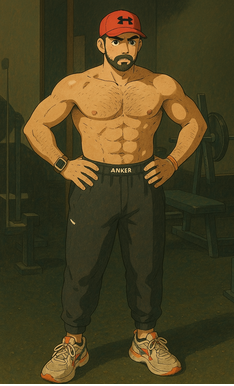
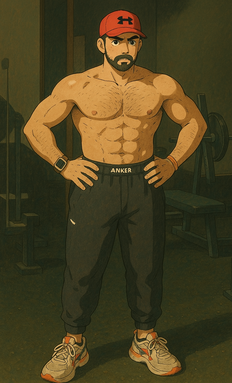
form unfunctional added

diff --git a/index.html b/index.html
@@ -584,126 +584,46 @@
                 right: 10px;
             }
         }
-        .contact-section {
-  padding-top: 120px;
-  font-family: Arial, sans-serif;
-  background: #f4f6f8;
+        
+/* css contact form */
+
+.contact-section{padding:4rem 1rem;font-family:'Segoe UI',sans-serif;background:#f4f6f8}
+.contact-main{max-width:1200px;margin:0 auto;display:flex;gap:2rem;align-items:stretch; margin-top: 8%;}
+.contact-info,.contact-form{flex:1}
+.contact-info{background:#fff;padding:2rem;border-radius:1.25rem;box-shadow:0 4px 20px rgba(0,0,0,0.05);text-align:center}
+.contact-heading{font-size:2.25rem;margin-bottom:1rem;color:#222}
+.contact-subheading{font-size:1.5rem;margin-bottom:0.5rem;color:#333}
+.contact-text{font-size:1rem;color:#666;margin-bottom:2rem}
+.contact-icon{width:5rem;margin-bottom:1.25rem}
+.contact-btn{display:inline-flex;align-items:center;gap:0.5rem;margin:0.5rem;padding:0.75rem 1.5rem;color:white;text-decoration:none;border-radius:2rem;font-size:1rem;transition:transform 0.3s}
+.contact-btn:hover{transform:translateY(-2px)}
+.email-btn{background:#0073e6}
+.whatsapp-btn{background:#25D366}
+.contact-form{background:rgba(0,0,0,0.8);border:1px solid #333;border-radius:15px;padding:2.5rem;backdrop-filter:blur(10px);box-shadow:0 15px 35px rgba(0,0,0,0.5)}
+.form-heading{color:#fff;text-align:center;margin-bottom:2rem;font-size:2rem;font-weight:300;letter-spacing:1px;margin-top:0}
+.input-group{margin-bottom:1.5rem}
+.input-field{width:100%;padding:1rem 1.2rem;background:rgba(255,255,255,0.05);border:2px solid rgba(255,255,255,0.1);border-radius:8px;color:#fff;font-size:1rem;transition:all 0.3s;outline:none;box-sizing:border-box;font-family:inherit}
+.input-field.textarea{resize:vertical;min-height:120px}
+.input-field:focus{border-color:#4CAF50;background:rgba(255,255,255,0.08);box-shadow:0 0 15px rgba(76,175,80,0.3)}
+.input-field::placeholder{color:rgba(255,255,255,0.6)}
+.submit-btn{width:100%;padding:1rem;background:linear-gradient(45deg,#4CAF50,#45a049);border:none;border-radius:8px;color:white;font-size:1.1rem;font-weight:600;cursor:pointer;transition:all 0.3s;text-transform:uppercase;letter-spacing:1px}
+.submit-btn:hover{background:linear-gradient(45deg,#45a049,#4CAF50);transform:translateY(-2px);box-shadow:0 8px 20px rgba(76,175,80,0.4)}
+@media (max-width:768px){
+.contact-main{flex-direction:column;gap:1.5rem}
+.contact-heading{font-size:1.75rem}
+.contact-subheading{font-size:1.25rem}
+.contact-btn{width:100%;justify-content:center}
+.contact-icon{width:4rem}
+.contact-info,.contact-form{padding:1.5rem}
+.form-heading{font-size:1.5rem}
 }
-/* contact css */
-.contact-section {
-  padding-top: 8em;
-  font-family: Arial, sans-serif;
-  background: #f4f6f8;
+@media (max-width:480px){
+.contact-section{padding:2rem 0.5rem}
+.contact-heading{font-size:1.5rem}
+.contact-subheading{font-size:1.1rem}
+.contact-info,.contact-form{padding:1rem}
+.form-heading{font-size:1.3rem}
 }
-
-.contact-container {
-  max-width: 90%;
-  margin: auto;
-  text-align: center;
-  padding: 1.5em;
-}
-
-.contact-heading {
-  font-size: 2.25em;
-  margin-bottom: 0.5em;
-  color: #222;
-}
-
-.contact-info {
-  background-color: #ffffff;
-  padding: 1.5em;
-  border-radius: 1.25em;
-  box-shadow: 0 4px 20px rgba(0, 0, 0, 0.05);
-}
-
-.contact-icon {
-  width: 5em;
-  margin-bottom: 1.25em;
-}
-
-.contact-subheading {
-  font-size: 1.5em;
-  margin-bottom: 0.5em;
-  color: #333;
-}
-
-.contact-text {
-  font-size: 1em;
-  color: #666;
-  margin-bottom: 2em;
-  padding: 0 1em;
-}
-
-.contact-btn {
-  display: inline-flex;
-  align-items: center;
-  gap: 0.5em;
-  margin: 0.5em;
-  padding: 0.75em 1.5em;
-  color: white;
-  text-decoration: none;
-  border-radius: 2em;
-  font-size: 1em;
-  width: auto;
-  white-space: nowrap;
-}
-
-.email-btn {
-  background-color: #0073e6;
-}
-
-.whatsapp-btn {
-  background-color: #25D366;
-}
-
-/* Responsive adjustments */
-@media (max-width: 768px) {
-  .contact-heading {
-    font-size: 1.75em;
-  }
-
-  .contact-subheading {
-    font-size: 1.25em;
-  }
-
-  .contact-text {
-    font-size: 0.95em;
-  }
-
-  .contact-btn {
-    width: 100%;
-    justify-content: center;
-    font-size: 0.95em;
-  }
-
-  .contact-icon {
-    width: 4em;
-  }
-}
-
-@media (max-width: 480px) {
-  .contact-section {
-    padding-top: 4em;
-  }
-
-  .contact-heading {
-    font-size: 1.5em;
-  }
-
-  .contact-subheading {
-    font-size: 1.1em;
-  }
-
-  .contact-btn {
-    font-size: 0.9em;
-    padding: 0.75em 1em;
-  }
-
-  .contact-container {
-    padding: 1em;
-  }
-}
-
 
 
     </style>
@@ -1183,7 +1103,7 @@
                 </div>
                 <div class="about-content">
                     <div class="about-img">
-                        <img src="photos/about mohit.jpg" alt="Mohit - Fitness Coach">
+                        <img src="photos/about mohit gibli.png" alt="Mohit - Fitness Coach">
                     </div>
                     <div class="about-text">
                         <h3>Meet Your Trainer</h3>
@@ -1409,34 +1329,101 @@
     </div>
 
     <!-- Contact Page -->
-    <div id="contact" class="page">
-    <section class="contact-section">
-  <div class="container contact-container">
-    <div class="section-title-about">
-      <h2 class="contact-heading">📬 Contact Us</h2>
-    </div>
-
+     <div id="contact" class="page">
+   <section class="contact-section">
+  <div class="contact-main">
     <div class="contact-info">
-      <img src="https://img.icons8.com/clouds/100/000000/new-post.png" alt="Email Icon" class="contact-icon" />
+      <h2 class="contact-heading">📬 Contact Us</h2>
+      <img src="https://img.icons8.com/clouds/100/000000/new-post.png" alt="Email Icon" class="contact-icon">
       <h3 class="contact-subheading">Get in Touch</h3>
-      <p class="contact-text">
-        Ready to start your fitness journey? Have questions about our programs? Reach out to us directly!
-      </p>
-
+      <p class="contact-text">Ready to start your fitness journey? Have questions about our programs? Reach out to us directly!</p>
       <a href="mailto:fitlifebymohit@gmail.com?subject=Inquiry&body=Hello%2C%20I%20have%20a%20question%20about%20your%20services." class="contact-btn email-btn">
-        <img src="https://img.icons8.com/ios-filled/24/ffffff/new-post.png" alt="Mail Icon" />
-        Email Us
+        <img src="https://img.icons8.com/ios-filled/24/ffffff/new-post.png" alt="Mail">Email Us
       </a>
-
       <a href="https://wa.me/918307998095?text=Hello%2C%20I%20am%20interested%20in%20your%20services" class="contact-btn whatsapp-btn" target="_blank">
-        <img src="https://img.icons8.com/ios-filled/24/ffffff/whatsapp.png" alt="WhatsApp Icon" />
-        Chat on WhatsApp
+        <img src="https://img.icons8.com/ios-filled/24/ffffff/whatsapp.png" alt="WhatsApp">Chat on WhatsApp
       </a>
+    </div>
+    
+    <div class="contact-form">
+      <h2 class="form-heading">Get In Touch</h2>
+      <form>
+        <div class="input-group">
+          <input type="text" name="name" required placeholder="Your Name" class="input-field">
+        </div>
+        <div class="input-group">
+          <input type="email" name="email" required placeholder="Your Email" class="input-field">
+        </div>
+        <div class="input-group">
+          <textarea name="message" required placeholder="Your Message" class="input-field textarea"></textarea>
+        </div>
+        <button type="submit" class="submit-btn">Send Message</button>
+      </form>
     </div>
   </div>
 </section>
 
+</div>
 
+
+<!-- EmailJS Scripts -->
+<script type="text/javascript" src="https://cdn.jsdelivr.net/npm/@emailjs/browser@4/dist/email.min.js"></script>
+
+<script type="text/javascript">
+(function(){
+    emailjs.init({
+        publicKey: "zqUtcZnNasYmDJNsv",
+    });
+})();
+
+function sendContactEmail(e) {
+    e.preventDefault();
+    
+    const submitBtn = document.getElementById('submitBtn');
+    const successMessage = document.getElementById('successMessage');
+    const errorMessage = document.getElementById('errorMessage');
+    const form = document.getElementById('contactForm');
+    
+    // Hide previous messages
+    successMessage.style.display = 'none';
+    errorMessage.style.display = 'none';
+    
+    // Disable button and show loading state
+    submitBtn.disabled = true;
+    submitBtn.textContent = 'Sending...';
+    submitBtn.style.background = '#555';
+    submitBtn.style.cursor = 'not-allowed';
+    submitBtn.style.transform = 'none';
+    submitBtn.style.boxShadow = 'none';
+    
+    // Send email using EmailJS
+    emailjs.sendForm('YOUR_SERVICE_ID', 'YOUR_TEMPLATE_ID', e.target)
+        .then(() => {
+            // Success
+            successMessage.style.display = 'block';
+            form.reset();
+            submitBtn.textContent = 'Message Sent!';
+            submitBtn.style.background = 'linear-gradient(45deg, #4CAF50, #45a049)';
+            
+            // Reset button after 3 seconds
+            setTimeout(() => {
+                submitBtn.disabled = false;
+                submitBtn.textContent = 'Send Message';
+                submitBtn.style.cursor = 'pointer';
+                submitBtn.style.background = 'linear-gradient(45deg, #4CAF50, #45a049)';
+            }, 3000);
+        })
+        .catch((error) => {
+            // Error
+            console.error('EmailJS Error:', error);
+            errorMessage.style.display = 'block';
+            submitBtn.disabled = false;
+            submitBtn.textContent = 'Send Message';
+            submitBtn.style.background = 'linear-gradient(45deg, #4CAF50, #45a049)';
+            submitBtn.style.cursor = 'pointer';
+        });
+}
+</script>
     </div>
     <!-- certifications page -->
         <div id="certifications" class="page">
